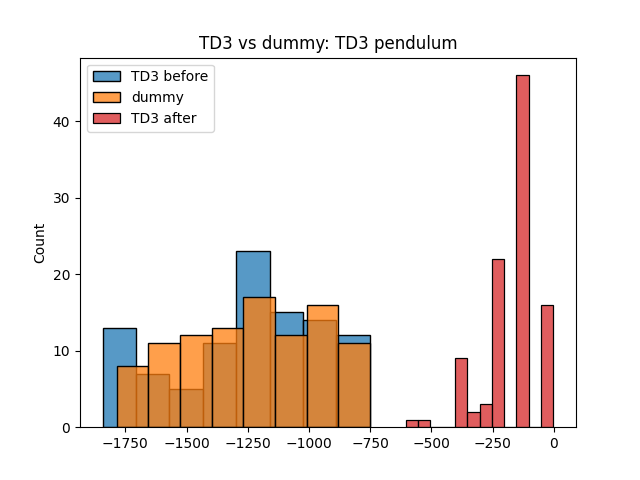
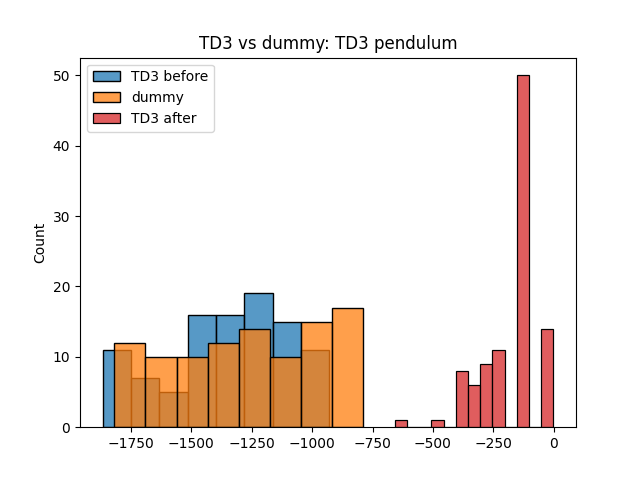
Added forgotten Polyak Averaging for second target critic

diff --git a/src/algorithms/hybrid/tf2/td3.py b/src/algorithms/hybrid/tf2/td3.py
@@ -37,6 +37,10 @@ class TD3(ddpg.DDPG):
         self.critic_net2 = critic_net2
         self.target_critic2 = critic_net2_target
 
+    def update_networks(self):
+        super().update_networks()
+        qnets.polyak_tau_update_networks(self.target_critic2.net, self.critic_net2.net, self.polyak_tau)
+
     def learn(self,
               s: np.array,
               a: np.array,
